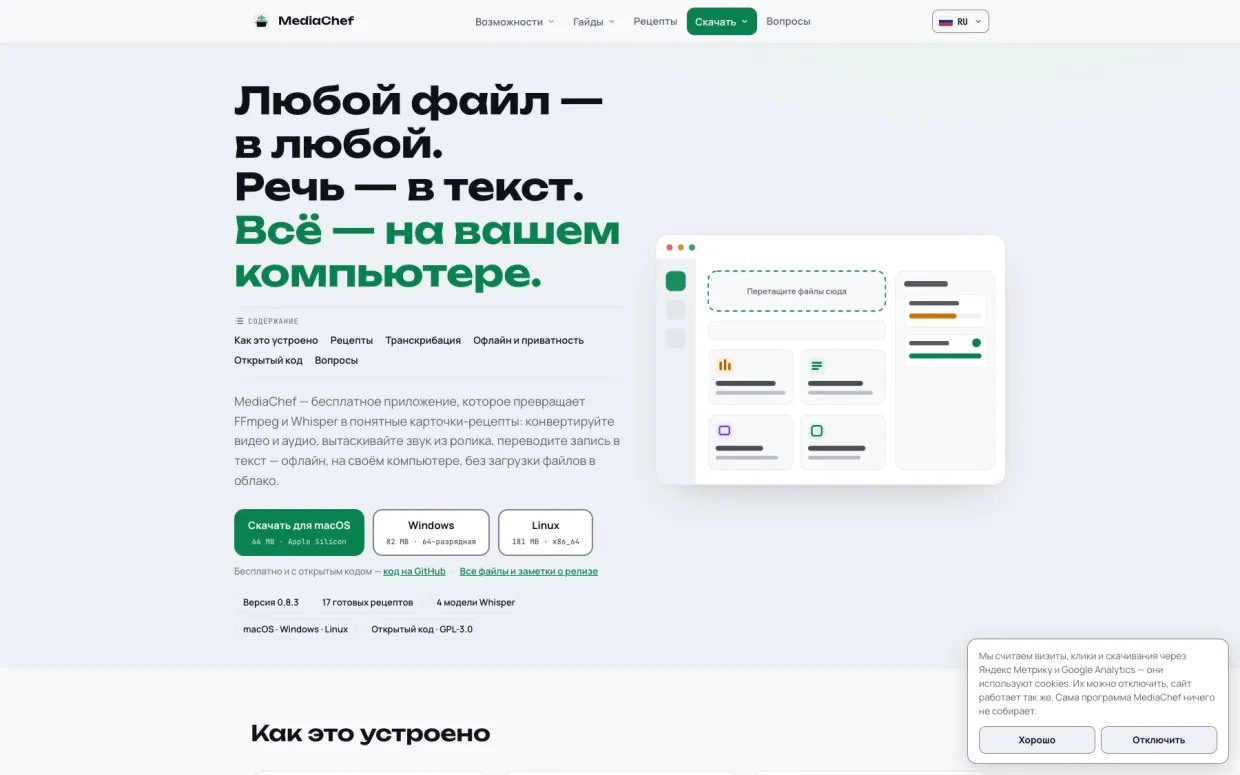
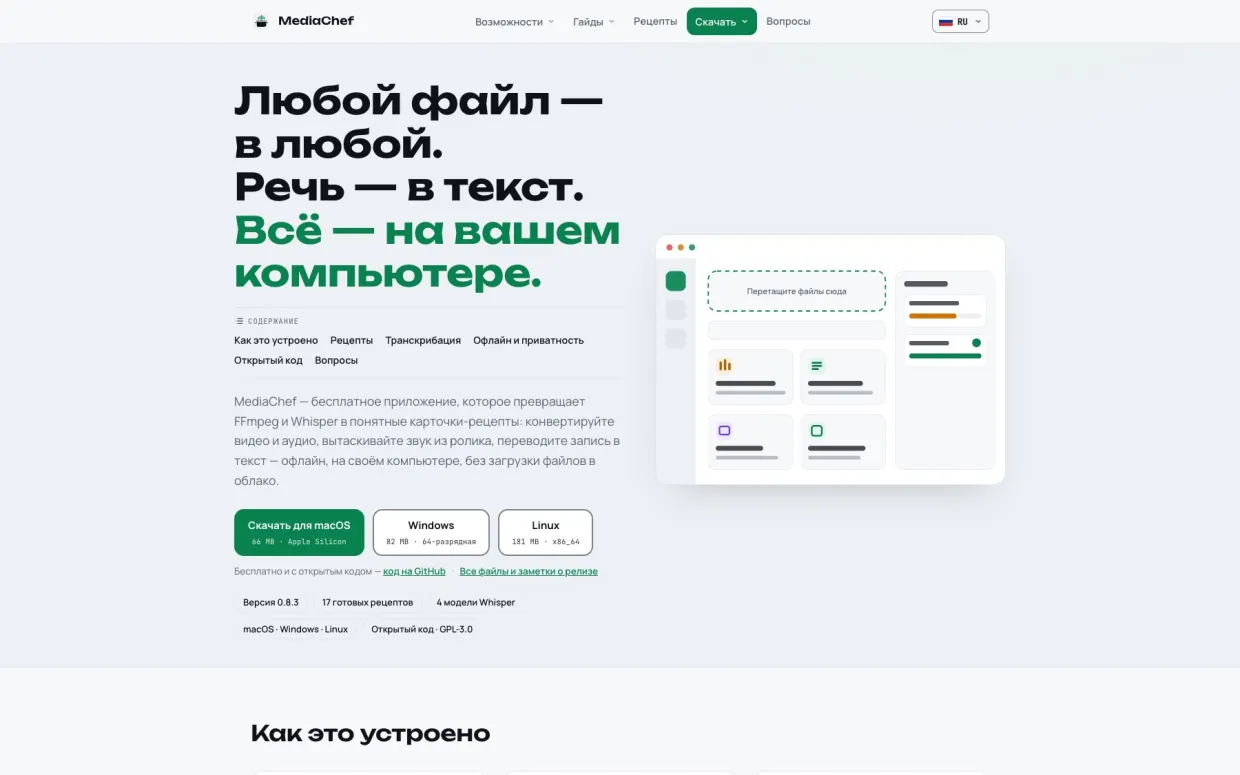
fix: снимок занимает всю рамку, MediaChef переснят без баннера о куках
Белая полоса справа была не в файле: картинка выводилась в 1240 px внутри
рамки шириной 1320, и справа оставался её белый фон.

Claude-Session: https://claude.ai/code/session_01T3XP6ZQWi4S9RA6eQduzEf

Changed region(s): [[0.7661, 0.8361, 0.9806, 0.991]]

diff --git a/assets/site.css b/assets/site.css
@@ -130,6 +130,9 @@ h1, h2, h3 { margin: 0; font-weight: 400; text-wrap: balance; }
 .shot { margin: 0; border-radius: 12px; overflow: hidden; box-shadow: 0 30px 80px rgba(0, 0, 0, .32), 0 0 0 1px rgba(0, 0, 0, .1); background: #fff;
   transform: translateY(18px); transition: transform .9s cubic-bezier(.2,.7,.2,1); }
 .proj.in .shot { transform: none; }
+/* снимок занимает всю рамку: иначе справа остаётся её белый фон */
+.shot picture { display: block; }
+.shot img { width: 100%; height: auto; }
 .shot.ui svg { display: block; width: 100%; height: auto; }
 .vert { writing-mode: vertical-rl; font-weight: 800; letter-spacing: -.04em; text-transform: uppercase; line-height: .8;
   justify-self: end; align-self: start; white-space: nowrap; opacity: .92; }

diff --git a/404.html b/404.html
@@ -11,7 +11,7 @@
 <link rel="icon" href="/favicon.svg" type="image/svg+xml">
 <link rel="icon" href="/favicon.ico" sizes="32x32">
 <link rel="apple-touch-icon" href="/apple-touch-icon.png">
-<link rel="stylesheet" href="/assets/site.css?v=9c774e9f">
+<link rel="stylesheet" href="/assets/site.css?v=21601dfe">
 <meta property="og:type" content="website">
 <meta property="og:site_name" content="Егор Протасов">
 <meta property="og:locale" content="ru_RU">

diff --git a/index.html b/index.html
@@ -11,7 +11,7 @@
 <link rel="icon" href="/favicon.svg" type="image/svg+xml">
 <link rel="icon" href="/favicon.ico" sizes="32x32">
 <link rel="apple-touch-icon" href="/apple-touch-icon.png">
-<link rel="stylesheet" href="/assets/site.css?v=9c774e9f">
+<link rel="stylesheet" href="/assets/site.css?v=21601dfe">
 <meta property="og:type" content="profile">
 <meta property="og:site_name" content="Егор Протасов">
 <meta property="og:locale" content="ru_RU">

diff --git a/projects/ad-network/index.html b/projects/ad-network/index.html
@@ -11,7 +11,7 @@
 <link rel="icon" href="/favicon.svg" type="image/svg+xml">
 <link rel="icon" href="/favicon.ico" sizes="32x32">
 <link rel="apple-touch-icon" href="/apple-touch-icon.png">
-<link rel="stylesheet" href="/assets/site.css?v=9c774e9f">
+<link rel="stylesheet" href="/assets/site.css?v=21601dfe">
 <meta property="og:type" content="article">
 <meta property="og:site_name" content="Егор Протасов">
 <meta property="og:locale" content="ru_RU">

diff --git a/projects/crypto-exchange/index.html b/projects/crypto-exchange/index.html
@@ -11,7 +11,7 @@
 <link rel="icon" href="/favicon.svg" type="image/svg+xml">
 <link rel="icon" href="/favicon.ico" sizes="32x32">
 <link rel="apple-touch-icon" href="/apple-touch-icon.png">
-<link rel="stylesheet" href="/assets/site.css?v=9c774e9f">
+<link rel="stylesheet" href="/assets/site.css?v=21601dfe">
 <meta property="og:type" content="article">
 <meta property="og:site_name" content="Егор Протасов">
 <meta property="og:locale" content="ru_RU">

diff --git a/projects/mapka/index.html b/projects/mapka/index.html
@@ -11,7 +11,7 @@
 <link rel="icon" href="/favicon.svg" type="image/svg+xml">
 <link rel="icon" href="/favicon.ico" sizes="32x32">
 <link rel="apple-touch-icon" href="/apple-touch-icon.png">
-<link rel="stylesheet" href="/assets/site.css?v=9c774e9f">
+<link rel="stylesheet" href="/assets/site.css?v=21601dfe">
 <meta property="og:type" content="article">
 <meta property="og:site_name" content="Егор Протасов">
 <meta property="og:locale" content="ru_RU">

diff --git a/projects/mediachef/index.html b/projects/mediachef/index.html
@@ -11,7 +11,7 @@
 <link rel="icon" href="/favicon.svg" type="image/svg+xml">
 <link rel="icon" href="/favicon.ico" sizes="32x32">
 <link rel="apple-touch-icon" href="/apple-touch-icon.png">
-<link rel="stylesheet" href="/assets/site.css?v=9c774e9f">
+<link rel="stylesheet" href="/assets/site.css?v=21601dfe">
 <meta property="og:type" content="article">
 <meta property="og:site_name" content="Егор Протасов">
 <meta property="og:locale" content="ru_RU">

diff --git a/projects/plumbing-network/index.html b/projects/plumbing-network/index.html
@@ -11,7 +11,7 @@
 <link rel="icon" href="/favicon.svg" type="image/svg+xml">
 <link rel="icon" href="/favicon.ico" sizes="32x32">
 <link rel="apple-touch-icon" href="/apple-touch-icon.png">
-<link rel="stylesheet" href="/assets/site.css?v=9c774e9f">
+<link rel="stylesheet" href="/assets/site.css?v=21601dfe">
 <meta property="og:type" content="article">
 <meta property="og:site_name" content="Егор Протасов">
 <meta property="og:locale" content="ru_RU">

diff --git a/projects/rental-india/index.html b/projects/rental-india/index.html
@@ -11,7 +11,7 @@
 <link rel="icon" href="/favicon.svg" type="image/svg+xml">
 <link rel="icon" href="/favicon.ico" sizes="32x32">
 <link rel="apple-touch-icon" href="/apple-touch-icon.png">
-<link rel="stylesheet" href="/assets/site.css?v=9c774e9f">
+<link rel="stylesheet" href="/assets/site.css?v=21601dfe">
 <meta property="og:type" content="article">
 <meta property="og:site_name" content="Егор Протасов">
 <meta property="og:locale" content="ru_RU">

diff --git a/projects/techkio/index.html b/projects/techkio/index.html
@@ -11,7 +11,7 @@
 <link rel="icon" href="/favicon.svg" type="image/svg+xml">
 <link rel="icon" href="/favicon.ico" sizes="32x32">
 <link rel="apple-touch-icon" href="/apple-touch-icon.png">
-<link rel="stylesheet" href="/assets/site.css?v=9c774e9f">
+<link rel="stylesheet" href="/assets/site.css?v=21601dfe">
 <meta property="og:type" content="article">
 <meta property="og:site_name" content="Егор Протасов">
 <meta property="og:locale" content="ru_RU">

diff --git a/projects/ultracker/index.html b/projects/ultracker/index.html
@@ -11,7 +11,7 @@
 <link rel="icon" href="/favicon.svg" type="image/svg+xml">
 <link rel="icon" href="/favicon.ico" sizes="32x32">
 <link rel="apple-touch-icon" href="/apple-touch-icon.png">
-<link rel="stylesheet" href="/assets/site.css?v=9c774e9f">
+<link rel="stylesheet" href="/assets/site.css?v=21601dfe">
 <meta property="og:type" content="article">
 <meta property="og:site_name" content="Егор Протасов">
 <meta property="og:locale" content="ru_RU">
